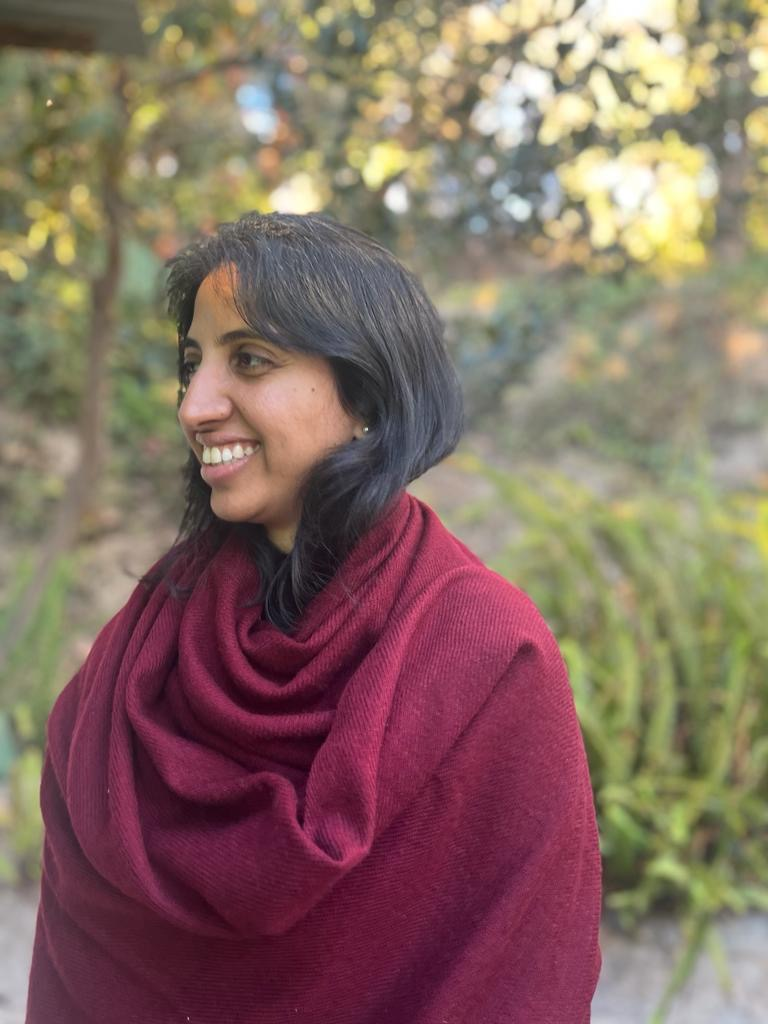
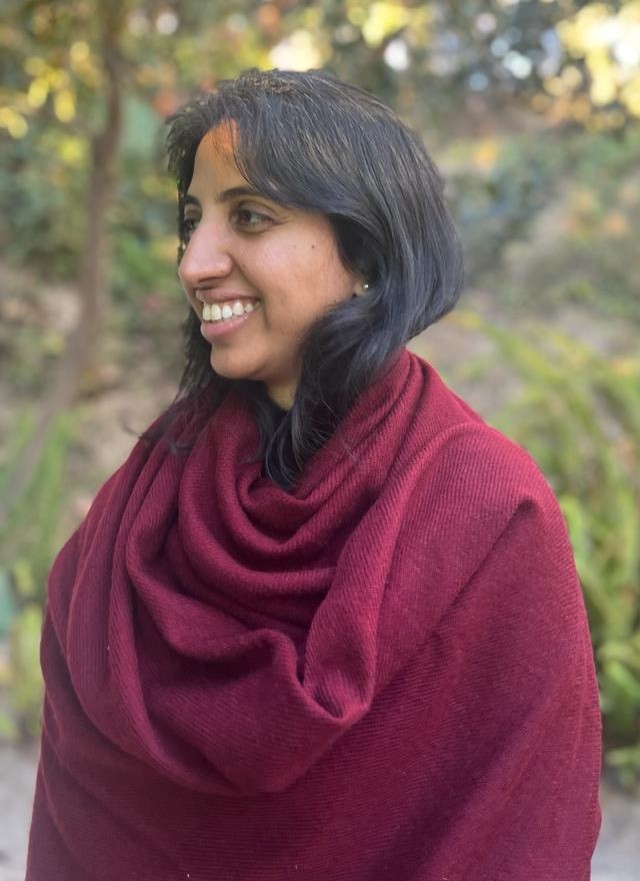
fixed minor things

diff --git a/app/about/OurInspiration.tsx b/app/about/OurInspiration.tsx
@@ -7,17 +7,17 @@ import FadeIn from '@/components/animations/FadeIn';
 
 export default function OurInspiration() {
   return (
-    <section className="bg-[var(--background-blue)] py-12 md:py-16">
+    <section className="bg-[var(--background-purple)] py-12 md:py-16">
       <div className="max-w-7xl mx-auto px-4 sm:px-6 lg:px-8">
         {/* Title - outside white box */}
         <SlideUp delay={0.2}>
           <div className="text-center mb-8">
-            <h2 className="afacad-regular text-2xl md:text-3xl lg:text-4xl text-[var(--foreground-blue)] uppercase mb-6 text-center sm:text-center md:text-center">
+            <h2 className="afacad-regular text-2xl md:text-3xl lg:text-4xl text-white uppercase mb-6 text-center sm:text-center md:text-center">
               Our Inspiration
             </h2>
           </div>
         </SlideUp>
-        <div className="w-full h-[1px] bg-[var(--foreground-blue)] mb-8 md:mb-10"></div>
+        <div className="w-full h-[1px] bg-white mb-8 md:mb-10"></div>
 
         {/* Cards Container */}
         <div className="grid md:grid-cols-2 lg:grid-cols-3 gap-6 lg:gap-8">
@@ -25,7 +25,7 @@ export default function OurInspiration() {
           <ScaleIn className="bg-white rounded-lg p-6 md:p-8" delay={0.3}>
             <div className="space-y-6">
               {/* Title */}
-              <h3 className="rubik-medium text-xl md:text-2xl text-[var(--foreground-blue)] text-center">
+              <h3 className="rubik-medium text-xl md:text-2xl text-[var(--foreground-purple)] text-center">
                 Sri Sainathuni Sarath Babuji
               </h3>
 
@@ -41,10 +41,10 @@ export default function OurInspiration() {
 
               {/* Quote */}
               <div className="space-y-4">
-                <blockquote className="rubik-light text-base md:text-lg text-[var(--foreground-blue)] leading-relaxed text-center sm:text-center md:text-center">
+                <blockquote className="rubik-light text-base md:text-lg text-[var(--foreground-purple)] leading-relaxed text-center">
                   "If you have a talent, it is a gift from Baba. Make it an offering to him, which will be a means of remembering him. It is both an expression and an experience of Baba."
                 </blockquote>
-                <p className="rubik-light text-sm md:text-base text-[var(--foreground-blue)] text-right">
+                <p className="rubik-light text-sm md:text-base text-[var(--foreground-purple)] text-center">
                   — Sri Babuji
                 </p>
               </div>
@@ -55,7 +55,7 @@ export default function OurInspiration() {
           <ScaleIn className="bg-white rounded-lg p-6 md:p-8" delay={0.4}>
             <div className="space-y-6">
               {/* Title */}
-              <h3 className="rubik-medium text-xl md:text-2xl text-[var(--foreground-blue)] text-center">
+              <h3 className="rubik-medium text-xl md:text-2xl text-[var(--foreground-purple)] text-center">
                 Shirdi Sai Baba
               </h3>
 
@@ -71,10 +71,10 @@ export default function OurInspiration() {
 
               {/* Quote */}
               <div className="space-y-4">
-                <blockquote className="rubik-light text-base md:text-lg text-[var(--foreground-blue)] leading-relaxed">
+                <blockquote className="rubik-light text-base md:text-lg text-[var(--foreground-purple)] leading-relaxed text-center">
                   "Have faith and patience. Then I will be always with you wherever you are and at all times."
                 </blockquote>
-                <p className="rubik-light text-sm md:text-base text-[var(--foreground-blue)] text-right">
+                <p className="rubik-light text-sm md:text-base text-[var(--foreground-purple)] text-center">
                   — Saibaba of Shirdi
                 </p>
               </div>
@@ -85,7 +85,7 @@ export default function OurInspiration() {
           <ScaleIn className="bg-white rounded-lg p-6 md:p-8" delay={0.5}>
             <div className="space-y-6">
               {/* Title */}
-              <h3 className="rubik-medium text-xl md:text-2xl text-[var(--foreground-blue)] text-center">
+              <h3 className="rubik-medium text-xl md:text-2xl text-[var(--foreground-purple)] text-center">
                 Ammagaru
               </h3>
 
@@ -101,10 +101,10 @@ export default function OurInspiration() {
 
               {/* Text */}
               <div className="space-y-4">
-                <p className="rubik-light text-base md:text-lg text-[var(--foreground-blue)] leading-relaxed text-center">
+                <p className="rubik-light text-base md:text-lg text-[var(--foreground-purple)] leading-relaxed text-center">
                   Guiding us with unconditional love and blessings
                 </p>
-                <p className="rubik-light text-sm md:text-base text-[var(--foreground-blue)] text-right">
+                <p className="rubik-light text-sm md:text-base text-[var(--foreground-purple)] text-center">
                 </p>
               </div>
             </div>

diff --git a/components/Button.tsx b/components/Button.tsx
@@ -6,6 +6,7 @@ interface ButtonProps {
   href?: string;
   onClick?: () => void;
   openInNewTab?: boolean;
+  variant?: 'default' | 'product-view' | 'all-products';
 }
 
 export default function Button({ 
@@ -13,9 +14,20 @@ export default function Button({
   buttonText,
   href,
   onClick,
-  openInNewTab = false
+  openInNewTab = false,
+  variant = 'default'
 }: ButtonProps) {
-  const buttonClasses = "rubik-regular px-8 md:px-12 lg:px-16 py-3 md:py-4 border-2 bg-transparent uppercase text-sm md:text-base lg:text-lg tracking-wide hover:opacity-80 hover:scale-105 transition-all duration-300 text-center sm:text-center md:text-center inline-block";
+  // Determine hover class based on variant
+  const getHoverClass = () => {
+    if (variant === 'product-view') {
+      return 'hover-light-pink';
+    } else if (variant === 'all-products') {
+      return 'hover-pink-foreground';
+    }
+    return 'hover:opacity-80';
+  };
+
+  const buttonClasses = `rubik-regular px-8 md:px-12 lg:px-16 py-3 md:py-4 border-2 bg-transparent uppercase text-sm md:text-base lg:text-lg tracking-wide hover:scale-105 transition-all duration-300 text-center sm:text-center md:text-center inline-block rounded-lg ${getHoverClass()}`;
   
   const buttonStyle = {
     borderColor: buttonOutlineColor,
@@ -27,38 +39,77 @@ export default function Button({
     // External link or new tab
     if (openInNewTab || href.startsWith('http')) {
       return (
-        <a
-          href={href}
-          className={buttonClasses}
-          style={buttonStyle}
-          target="_blank"
-          rel="noopener noreferrer"
-        >
-          {buttonText}
-        </a>
+        <>
+          <a
+            href={href}
+            className={buttonClasses}
+            style={buttonStyle}
+            target="_blank"
+            rel="noopener noreferrer"
+          >
+            {buttonText}
+          </a>
+          <style jsx>{`
+            .hover-light-pink:hover {
+              background-color: #FFB3D9 !important;
+              border-color: #FFB3D9 !important;
+            }
+            .hover-pink-foreground:hover {
+              background-color: #FF69B4 !important;
+              border-color: #FF69B4 !important;
+              color: #FFB3D9 !important;
+            }
+          `}</style>
+        </>
       );
     }
     
     // Internal link
     return (
-      <Link
-        href={href}
-        className={buttonClasses}
-        style={buttonStyle}
-      >
-        {buttonText}
-      </Link>
+      <>
+        <Link
+          href={href}
+          className={buttonClasses}
+          style={buttonStyle}
+        >
+          {buttonText}
+        </Link>
+        <style jsx>{`
+          .hover-light-pink:hover {
+            background-color: #FFB3D9 !important;
+            border-color: #FFB3D9 !important;
+          }
+          .hover-pink-foreground:hover {
+            background-color: #FF69B4 !important;
+            border-color: #FF69B4 !important;
+            color: #FFB3D9 !important;
+          }
+        `}</style>
+      </>
     );
   }
 
   // Otherwise, render as button with onClick
   return (
-    <button
-      onClick={onClick}
-      className={buttonClasses}
-      style={buttonStyle}
-    >
-      {buttonText}
-    </button>
+    <>
+      <button
+        onClick={onClick}
+        className={buttonClasses}
+        style={buttonStyle}
+      >
+        {buttonText}
+      </button>
+      <style jsx>{`
+        .hover-light-pink:hover {
+          background-color: #FFB3D9 !important;
+          border-color: #FFB3D9 !important;
+        }
+        .hover-pink-foreground:hover {
+          background-color: #FF69B4 !important;
+          border-color: #FF69B4 !important;
+          color: #FFB3D9 !important;
+        }
+      `}</style>
+    </>
   );
 }

diff --git a/app/home/HeroSection.tsx b/app/home/HeroSection.tsx
@@ -53,10 +53,10 @@ export default function HeroSection() {
           {/* Buttons */}
           <StaggerItem>
             <div className="flex flex-col gap-4 items-center sm:items-center md:items-center">
-              <a href="/order" className="rubik-regular w-44 px-6 py-2.5 bg-[#FFDCDC] text-[#C4735A] uppercase text-xs hover:opacity-90 hover:scale-105 transition-all inline-block text-center sm:text-center md:text-center">
+              <a href="/order" className="rubik-bold w-44 px-6 py-2.5 border-2 border-[#FFDCDC] text-[#FFDCDC] bg-transparent uppercase text-base hover:bg-[#FFDCDC] hover:text-[#C4735A] transition-all inline-block text-center sm:text-center md:text-center rounded-lg">
                 Order Now
               </a>
-              <a href="/products" className="rubik-regular w-44 px-6 py-2.5 border-2 border-[#FFDCDC] text-[#FFDCDC] bg-transparent uppercase text-xs hover:opacity-90 hover:scale-105 transition-all inline-block text-center sm:text-center md:text-center">
+              <a href="/products" className="rubik-bold w-44 px-6 py-2.5 border-2 border-[#FFDCDC] text-[#FFDCDC] bg-transparent uppercase text-base hover:bg-[#FFDCDC] hover:text-[#C4735A] transition-all inline-block text-center sm:text-center md:text-center rounded-lg">
                 Our Products
               </a>
             </div>
@@ -82,10 +82,10 @@ export default function HeroSection() {
             {/* Buttons */}
             <StaggerItem>
               <div className="flex gap-4 md:gap-6 justify-center sm:justify-center md:justify-center lg:justify-start">
-                <a href="/order" className="rubik-regular w-44 md:w-52 px-6 md:px-8 py-2.5 md:py-3 bg-[#FFDCDC] text-[#C4735A] uppercase text-xs md:text-sm hover:opacity-90 hover:scale-105 transition-all inline-block text-center sm:text-center md:text-center">
+                <a href="/order" className="rubik-bold w-44 md:w-52 px-6 md:px-8 py-2.5 md:py-3 border-2 border-[#FFDCDC] text-[#FFDCDC] bg-transparent uppercase text-base md:text-lg hover:bg-[#FFDCDC] hover:text-[#C4735A] transition-all inline-block text-center sm:text-center md:text-center rounded-lg">
                   Order Now
                 </a>
-                <a href="/products" className="rubik-regular w-44 md:w-52 px-6 md:px-8 py-2.5 md:py-3 border-2 border-[#FFDCDC] text-[#FFDCDC] bg-transparent uppercase text-xs md:text-sm hover:opacity-90 hover:scale-105 transition-all inline-block text-center sm:text-center md:text-center">
+                <a href="/products" className="rubik-bold w-44 md:w-52 px-6 md:px-8 py-2.5 md:py-3 border-2 border-[#FFDCDC] text-[#FFDCDC] bg-transparent uppercase text-base md:text-lg hover:bg-[#FFDCDC] hover:text-[#C4735A] transition-all inline-block text-center sm:text-center md:text-center rounded-lg">
                   Our Products
                 </a>
               </div>

diff --git a/components/NavBar.tsx b/components/NavBar.tsx
@@ -33,7 +33,7 @@ export default function NavBar() {
         <div className="max-w-7xl mx-auto px-4 sm:px-6 lg:px-8">
           <div className="flex justify-between items-center h-16 md:h-20">
             {/* Logo */}
-            <Link href="/" className="afacad-italic text-xl md:text-2xl lg:text-3xl text-[#645DAB]">
+            <Link href="/" className="afacad-italic text-2xl md:text-3xl lg:text-4xl xl:text-5xl text-[#645DAB]">
               Haritachala Organics
             </Link>
 
@@ -45,7 +45,7 @@ export default function NavBar() {
                     <Link
                       key={link.name}
                       href={link.href}
-                      className="afacad-regular text-base xl:text-lg text-[#645DAB] border-2 border-[#645DAB] px-4 py-1.5 rounded hover:bg-[#645DAB] hover:text-white transition-all"
+                      className="afacad-bold text-xl xl:text-2xl text-[#645DAB] border-2 border-[#645DAB] px-4 py-1.5 rounded hover:bg-[#645DAB] hover:text-white transition-all"
                     >
                       {link.name}
                     </Link>
@@ -55,7 +55,7 @@ export default function NavBar() {
                   <Link
                     key={link.name}
                     href={link.href}
-                    className="afacad-regular text-base xl:text-lg text-[#645DAB] hover:opacity-70 transition-opacity"
+                    className="afacad-bold text-xl xl:text-2xl text-[#645DAB] hover:opacity-70 transition-opacity"
                   >
                     {link.name}
                   </Link>
@@ -151,7 +151,7 @@ export default function NavBar() {
                         <Link
                           href={link.href}
                           onClick={toggleMenu}
-                          className="afacad-regular text-2xl md:text-3xl text-white border-2 border-white px-6 py-2 rounded hover:bg-white hover:text-[#B3B0D1] transition-all"
+                          className="afacad-bold text-2xl md:text-3xl text-white border-2 border-white px-6 py-2 rounded hover:bg-white hover:text-[#B3B0D1] transition-all"
                         >
                           {link.name}
                         </Link>
@@ -163,7 +163,7 @@ export default function NavBar() {
                       <Link
                         href={link.href}
                         onClick={toggleMenu}
-                        className="afacad-regular text-2xl md:text-3xl text-white hover:opacity-70 transition-opacity"
+                        className="afacad-bold text-2xl md:text-3xl text-white hover:opacity-70 transition-opacity"
                       >
                         {link.name}
                       </Link>

diff --git a/app/product/[slug]/ProductDetailClient.tsx b/app/product/[slug]/ProductDetailClient.tsx
@@ -111,8 +111,9 @@ export default function ProductDetailClient({ product, bgColor, textColor, butto
                       {/* Previous Button */}
                       <button
                         onClick={prevImage}
-                        className="absolute left-4 top-1/2 -translate-y-1/2 bg-white/90 hover:bg-white text-gray-800 rounded-full p-3 shadow-lg transition-all duration-300 hover:scale-110 z-10"
+                        className="absolute left-4 top-1/2 -translate-y-1/2 bg-white hover:bg-white/90 rounded-full p-3 shadow-lg transition-all duration-300 hover:scale-110 z-10"
                         aria-label="Previous image"
+                        style={{ color: 'var(--foreground-pink)' }}
                       >
                         <svg xmlns="http://www.w3.org/2000/svg" fill="none" viewBox="0 0 24 24" strokeWidth={2.5} stroke="currentColor" className="w-6 h-6">
                           <path strokeLinecap="round" strokeLinejoin="round" d="M15.75 19.5L8.25 12l7.5-7.5" />
@@ -122,8 +123,9 @@ export default function ProductDetailClient({ product, bgColor, textColor, butto
                       {/* Next Button */}
                       <button
                         onClick={nextImage}
-                        className="absolute right-4 top-1/2 -translate-y-1/2 bg-white/90 hover:bg-white text-gray-800 rounded-full p-3 shadow-lg transition-all duration-300 hover:scale-110 z-10"
+                        className="absolute right-4 top-1/2 -translate-y-1/2 bg-white hover:bg-white/90 rounded-full p-3 shadow-lg transition-all duration-300 hover:scale-110 z-10"
                         aria-label="Next image"
+                        style={{ color: 'var(--foreground-pink)' }}
                       >
                         <svg xmlns="http://www.w3.org/2000/svg" fill="none" viewBox="0 0 24 24" strokeWidth={2.5} stroke="currentColor" className="w-6 h-6">
                           <path strokeLinecap="round" strokeLinejoin="round" d="M8.25 4.5l7.5 7.5-7.5 7.5" />

diff --git a/app/product/MenuHeroSection.tsx b/app/product/MenuHeroSection.tsx
@@ -2,15 +2,33 @@
 
 import Image from 'next/image';
 import SlideUp from '@/components/animations/SlideUp';
+import { useEffect, useRef } from 'react';
 
 export default function MenuHeroSection() {
+  const videoRef = useRef<HTMLVideoElement>(null);
+
+  useEffect(() => {
+    const video = videoRef.current;
+    if (!video) return;
+
+    const handleTimeUpdate = () => {
+      if (video.currentTime >= 8) {
+        video.currentTime = 0;
+        video.play();
+      }
+    };
+
+    video.addEventListener('timeupdate', handleTimeUpdate);
+    return () => video.removeEventListener('timeupdate', handleTimeUpdate);
+  }, []);
+
   return (
     <section className="relative w-full h-[70vh] md:h-[80vh] lg:h-[85vh] overflow-hidden" style={{ backgroundColor: 'var(--background-pink)' }}>
       {/* Desktop/Large Screen Hero Video */}
       <div className="hidden lg:block absolute inset-0">
         <video
+          ref={videoRef}
           autoPlay
-          loop
           muted
           playsInline
           className="w-full h-full object-cover object-top"

diff --git a/app/about/page.tsx b/app/about/page.tsx
@@ -8,6 +8,7 @@ import GigglingGeckos from './GigglingGeckos';
 import BehindTheScenes2 from '../inside_scoop/BehindTheScenes2';
 import ContactUs from '@/components/ContactUs';
 import teamMembers from '@/data/team_members.json';
+import OurPurpose from '../home/OurPurpose';
 
 export default function AboutPage() {
   return (
@@ -19,8 +20,9 @@ export default function AboutPage() {
       
       {/* Hero Section with image and gradient */}
       <AboutHeroSection />
+
+      <OurPurpose />
       
-      <AboutSection />
       <OurInspiration />
       <TeamCarousel teamMembers={teamMembers} />
       <BehindTheScenes2 />

diff --git a/app/about/GigglingGeckos.tsx b/app/about/GigglingGeckos.tsx
@@ -37,7 +37,7 @@ export default function GigglingGeckos() {
               <Button 
                 buttonText="Living in Laughter Website"
                 buttonOutlineColor="#C4735A"
-                href="https://www.livinginlaughter.org/"
+                href="https://livinginlaughter.squarespace.com/"
                 openInNewTab={true}
               />
               

diff --git a/app/home/OurProducts.tsx b/app/home/OurProducts.tsx
@@ -70,6 +70,7 @@ export default function OurProducts({
               buttonOutlineColor={allProductsButtonColor}
               buttonText="All Products"
               href="/product"
+              variant="all-products"
             />
           </div>
         </FadeIn>

diff --git a/components/ProductCard.tsx b/components/ProductCard.tsx
@@ -59,6 +59,7 @@ export default function ProductCard({
             buttonOutlineColor={buttonColor}
             buttonText="View Product"
             href={`/product/${slug}`}
+            variant="product-view"
           />
         </div>
       </div>

diff --git a/app/page.tsx b/app/page.tsx
@@ -24,7 +24,6 @@ export default function Home() {
       <AboutSection />
       
       {/* Our Purpose Section */}
-      <OurPurpose />
       
       {/* Our Products Carousel Section */}
       <OurProducts />
